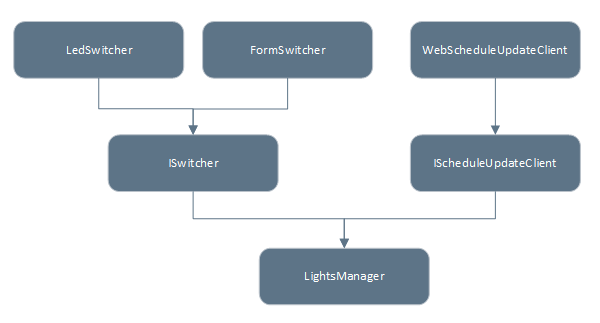
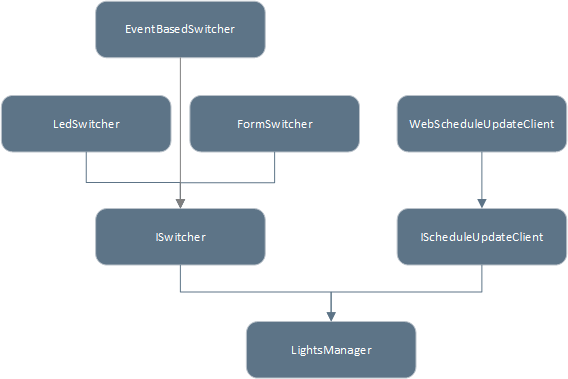
added event based switcher, updated readme

diff --git a/WindowsIotTrafficLights/WindowsIotTrafficLightsApp/MainPage.xaml.cs b/WindowsIotTrafficLights/WindowsIotTrafficLightsApp/MainPage.xaml.cs
@@ -1,9 +1,11 @@
 using System;
 using System.Diagnostics;
 using Windows.Devices.Gpio;
+using Windows.UI;
 using Windows.UI.Core;
 using Windows.UI.Xaml;
 using Windows.UI.Xaml.Controls;
+using Windows.UI.Xaml.Media;
 using WindowsIotTrafficLights;
 
 namespace WindowsIotTrafficLightsApp
@@ -23,14 +25,11 @@ namespace WindowsIotTrafficLightsApp
         {
             var updateClient = new WebScheduleUpdateClient();
             var ledSwitcher = GetGpioSwitcher();
-            var formSwitcher = new FormSwitcher(RedControl, YellowControl, GreenControl, Dispatcher);
+            //var formSwitcher = new FormSwitcher(RedControl, YellowControl, GreenControl, Dispatcher);
+            var eventSwicther = new EventBasedSwitcher();
+            eventSwicther.ItemSwitched += EventSwicther_ItemSwitched;
 
-            if(ledSwitcher == null)
-            {
-                Debug.WriteLine("Switcer is null");
-            }
-
-            var switchers = new ISwitcher[] { ledSwitcher, formSwitcher };
+            var switchers = new ISwitcher[] { ledSwitcher, eventSwicther };
 
             _lightsManager = new LightsManager(switchers, updateClient);
             _lightsManager.ScheduleChanged += async x => {
@@ -40,6 +39,16 @@ namespace WindowsIotTrafficLightsApp
                 }).AsTask();
             };
             _lightsManager.Start();
+        }
+
+        private async void EventSwicther_ItemSwitched(ScheduleItem item)
+        {
+            await Dispatcher.RunAsync(CoreDispatcherPriority.High, () =>
+            {
+                RedControl.Fill = new SolidColorBrush(item.Red ? Colors.Red : Colors.Black);
+                YellowControl.Fill = new SolidColorBrush(item.Yellow ? Colors.Yellow : Colors.Black);
+                GreenControl.Fill = new SolidColorBrush(item.Green ? Colors.Green : Colors.Black);
+            }).AsTask();
         }
 
         private LedSwitcher GetGpioSwitcher()

diff --git a/WindowsIotTrafficLights/WindowsIotTrafficLights/EventBasedSwitcher.cs b/WindowsIotTrafficLights/WindowsIotTrafficLights/EventBasedSwitcher.cs
@@ -1,0 +1,13 @@
+namespace WindowsIotTrafficLights
+{
+    public class EventBasedSwitcher : ISwitcher
+    {
+        public delegate void ItemSwicthedEventHandler(ScheduleItem item);
+        public event ItemSwicthedEventHandler ItemSwitched;
+
+        public void SwitchToItem(ScheduleItem item)
+        {
+            ItemSwitched?.Invoke(item);
+        }
+    }
+}

diff --git a/README.md b/README.md
@@ -1,5 +1,8 @@
 # WindowsIotTrafficLights
-Traffic lights simulator built on Windows 10 IoT Core and Raspberry Pi.
+Traffic lights simulator built on Windows 10 IoT Core and Raspberry Pi. It supports loading of LED blinking 
+schedules from remote sources and switches schedules automatically. Schedule switch is controlled by timer thread 
+that polls remote machine for new schedule. Sample contains two schedules: normal traffic lights working cycle and 
+blinking yellow.
 
 ## Electronic components
 This is all you need to get things done on hardware size:
@@ -41,6 +44,7 @@ Classes:
 * ScheduleItem - DTO class for schedule item.
 * LedSwitcher - ISwitcher implementation for LED-s connected to Raspberry Pi.
 * FromSwitcher - ISwitcher to bling traffic lights shapes on XAML form.
+* EventBasedSwitched - Common switcher that fires ItemSwitched event when new ScheduleItem is set by manager.
 
 ## Traffic lights schedule
 Part of external files folder of solution is simple PHP script that selects randomly between two JSON files:
